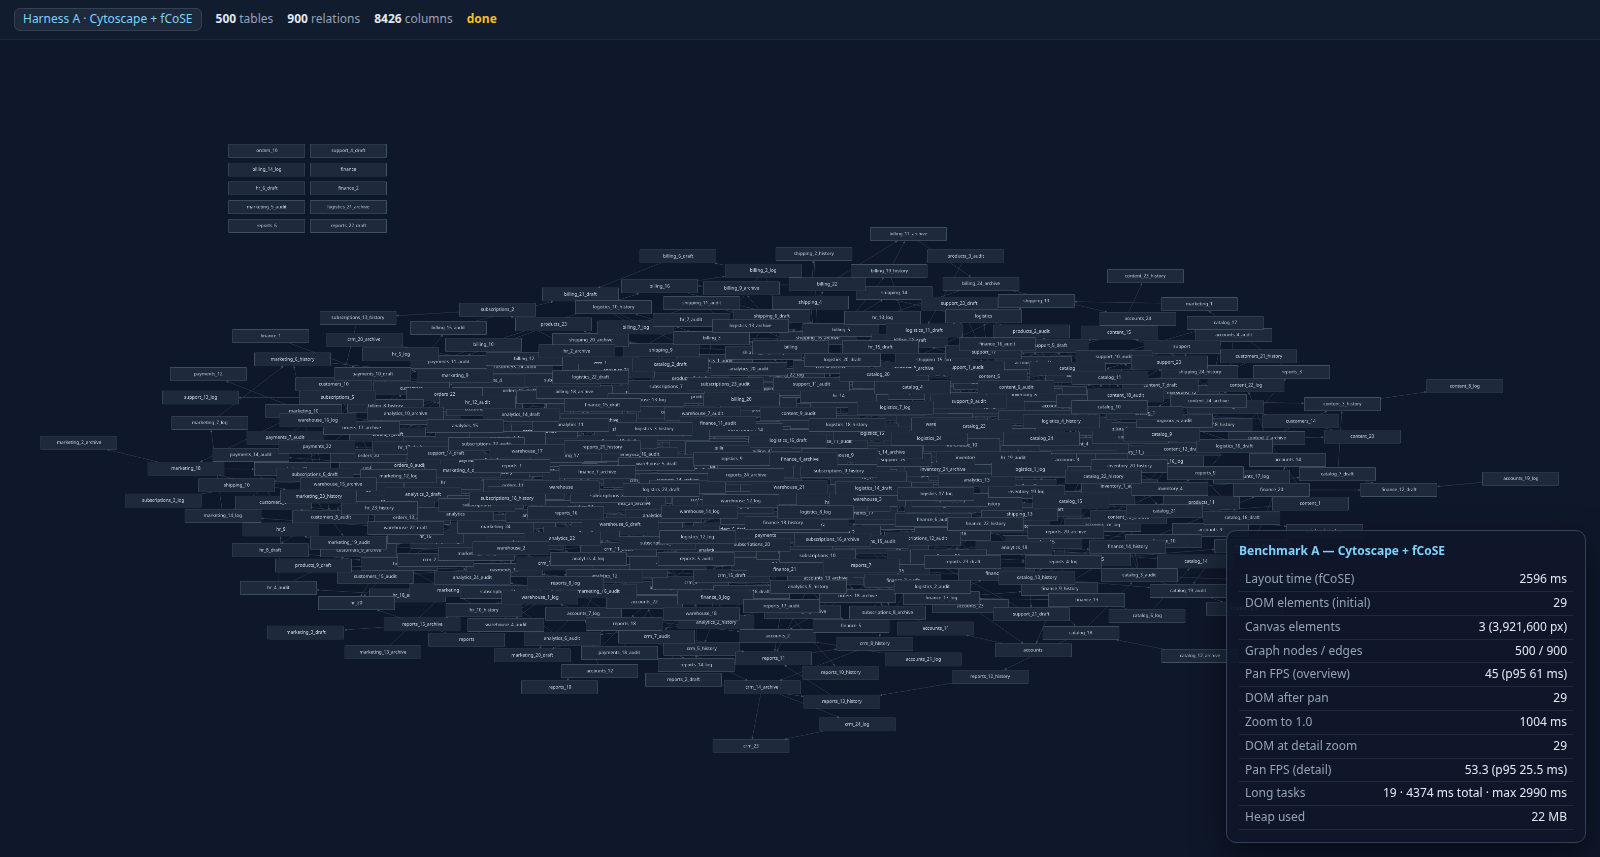
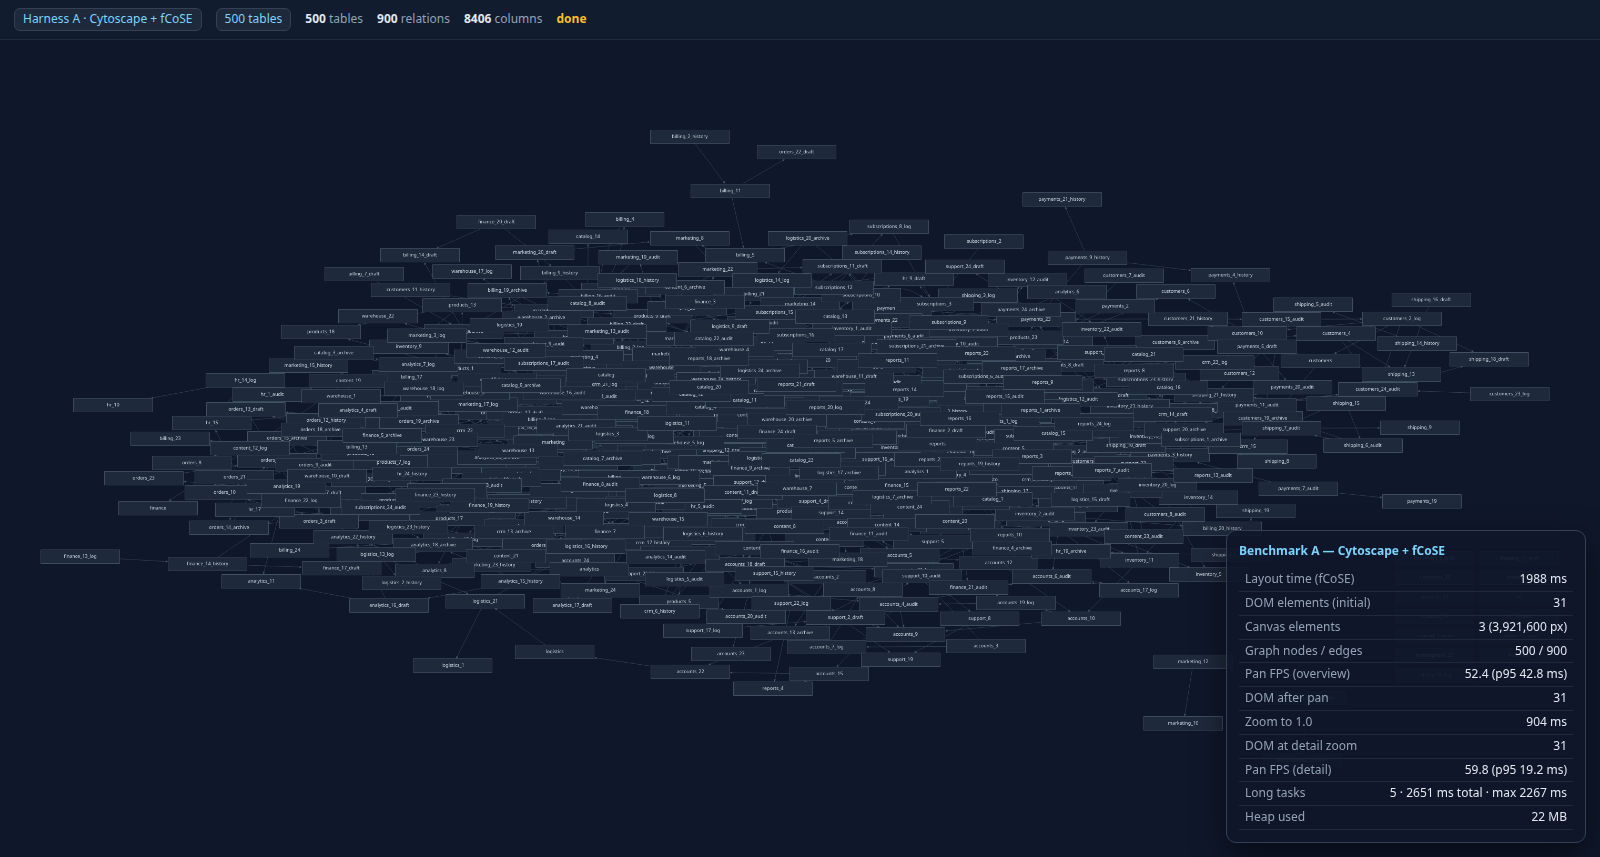
feat(er): P1.8 benchmark full matrix 100/500/1000 tables
Parameterized the harness: fixture-500.js becomes fixture-gen.js (generateERFixture + presets 100/500/1000 matching the locked A/B/C sizes), harnesses renamed to er-cytoscape.html / er-reactflow.html and read the scale from ?n=.

Full matrix (Chrome 150 headless, serialized): Cytoscape holds 31 DOM elements at every scale (layout 0.2/2/36 s); React Flow scales ~11.8 DOM/table (1,143/6,143/11,817; layout 0.15/8/122 s), overview pan degrades 60/34/18.6 fps while detail pan locks 60 fps both. Conclusions recorded in VERIFICATION.md: <=100 tables keep React Flow; ~500 viable with worker layout + neighborhood default; ~1000 full-graph React Flow not viable -> hybrid Cytoscape overview + React detail supported by evidence.

diff --git a/bench/fixture-gen.js b/bench/fixture-gen.js
@@ -1,0 +1,134 @@
+/*
+ * ER benchmark fixture generator — shared by both harnesses.
+ *
+ * Deterministic (mulberry32 seeded PRNG): same options => identical data on
+ * every load, so harness A (Cytoscape) and harness B (React Flow) always
+ * benchmark the exact same graph.
+ *
+ * Usage:
+ *   window.ER_FIXTURE = generateERFixture({ ... })   // or
+ *   window.ER_FIXTURE = generateERFixture.presets["500"]
+ *
+ * Presets (locked in docs/plans/active/ui-foundation-scale-hardening):
+ *   A 100  tables  ~150  relations  ~1,200 columns
+ *   B 500  tables  ~900  relations  ~7,500 columns
+ *   C 1000 tables  ~2000 relations  ~15,000 columns
+ */
+(function () {
+  "use strict";
+
+  function mulberry32(seed) {
+    let a = seed >>> 0;
+    return function () {
+      a |= 0;
+      a = (a + 0x6d2b79f5) | 0;
+      let t = Math.imul(a ^ (a >>> 15), 1 | a);
+      t = (t + Math.imul(t ^ (t >>> 7), 61 | t)) ^ t;
+      return ((t ^ (t >>> 14)) >>> 0) / 4294967296;
+    };
+  }
+
+  const COLUMN_TYPES = [
+    "bigint", "integer", "varchar(255)", "text", "timestamp",
+    "timestamptz", "boolean", "numeric(12,2)", "uuid", "date", "jsonb", "double precision",
+  ];
+  const COMMON_COLS = ["id", "created_at", "updated_at", "status", "is_active", "version", "tenant_id", "notes", "metadata"];
+
+  const DOMAIN_NAMES = [
+    "customers", "orders", "products", "payments", "accounts",
+    "shipping", "inventory", "billing", "hr", "crm",
+    "marketing", "support", "analytics", "content", "subscriptions",
+    "warehouse", "finance", "logistics", "catalog", "reports",
+  ];
+  const TABLE_SUFFIX = ["", "", "", "_history", "_archive", "_audit", "_log", "_draft"];
+
+  /**
+   * @param {object} opts
+   * @param {number} opts.tables      total tables (must divide by domains)
+   * @param {number} opts.relations   target relation count
+   * @param {number} opts.domains     number of domains (<= DOMAIN_NAMES.length)
+   * @param {number} opts.colMin      columns per table (min)
+   * @param {number} opts.colMax      columns per table (max)
+   * @param {number} [opts.seed]      PRNG seed (default 42)
+   */
+  function generateERFixture(opts) {
+    const seed = opts.seed ?? 42;
+    const rand = mulberry32(seed);
+    const pick = (arr) => arr[Math.floor(rand() * arr.length)];
+    const randInt = (min, max) => min + Math.floor(rand() * (max - min + 1));
+
+    const domains = DOMAIN_NAMES.slice(0, opts.domains);
+    const perDomain = Math.round(opts.tables / opts.domains);
+
+    const tables = [];
+    const relations = [];
+    let tableSeq = 1;
+
+    for (const domain of domains) {
+      for (let i = 0; i < perDomain; i++) {
+        const id = "t" + String(tableSeq++).padStart(4, "0");
+        const name = i === 0 ? domain : domain + "_" + i + pick(TABLE_SUFFIX);
+        const nCols = randInt(opts.colMin, opts.colMax);
+        const columns = [];
+        for (let c = 0; c < nCols; c++) {
+          const isPk = c === 0;
+          columns.push({
+            name: isPk ? "id" : COMMON_COLS[c % COMMON_COLS.length] + (c < 4 ? "" : "_" + c),
+            type: isPk ? "bigint" : pick(COLUMN_TYPES),
+            isPk,
+            isFk: false,
+          });
+        }
+        tables.push({ id, name, domain, columns });
+      }
+    }
+
+    // Relations: 65% intra-domain, 35% cross-domain; each relation adds one FK column.
+    const seenPairs = new Set();
+    let guard = 0;
+    while (relations.length < opts.relations && guard++ < opts.relations * 40) {
+      const source = tables[Math.floor(rand() * tables.length)];
+      let target;
+      if (rand() < 0.65) {
+        const sameDomain = tables.filter((t) => t.domain === source.domain && t.id !== source.id);
+        if (!sameDomain.length) continue;
+        target = sameDomain[Math.floor(rand() * sameDomain.length)];
+      } else {
+        const others = tables.filter((t) => t.domain !== source.domain);
+        if (!others.length) continue;
+        target = others[Math.floor(rand() * others.length)];
+      }
+      const key = source.id + "->" + target.id;
+      if (seenPairs.has(key)) continue;
+      seenPairs.add(key);
+      source.columns.push({ name: target.name + "_id", type: "bigint", isPk: false, isFk: true });
+      relations.push({
+        id: "fk" + (relations.length + 1),
+        source: source.id,
+        target: target.id,
+        column: target.name + "_id",
+        fkName: "fk_" + source.name + "_" + target.name + "_" + (relations.length + 1),
+      });
+    }
+
+    return {
+      seed,
+      tables,
+      relations,
+      stats: {
+        tables: tables.length,
+        relations: relations.length,
+        columns: tables.reduce((s, t) => s + t.columns.length, 0),
+        domains: domains.length,
+      },
+    };
+  }
+
+  generateERFixture.presets = {
+    "100": { tables: 100, relations: 150, domains: 10, colMin: 8, colMax: 16, seed: 42 },
+    "500": { tables: 500, relations: 900, domains: 20, colMin: 10, colMax: 20, seed: 42 },
+    "1000": { tables: 1000, relations: 2000, domains: 20, colMin: 10, colMax: 20, seed: 42 },
+  };
+
+  window.generateERFixture = generateERFixture;
+})();

diff --git a/bench/er-cytoscape.html b/bench/er-cytoscape.html
@@ -32,6 +32,7 @@
 <div id="app">
   <div id="hud">
     <span class="tag">Harness A · Cytoscape + fCoSE</span>
+    <span class="tag scale-badge"></span>
     <span><b id="statTables"></b> tables</span>
     <span><b id="statRels"></b> relations</span>
     <span><b id="statCols"></b> columns</span>
@@ -45,7 +46,14 @@
 <script src="vendor/layout-base.js"></script>
 <script src="vendor/cose-base.js"></script>
 <script src="vendor/cytoscape-fcose.js"></script>
-<script src="fixture-500.js"></script>
+<script src="fixture-gen.js"></script>
+<script>
+  // Scale via query param: er-cytoscape.html?n=100 | 500 | 1000 (default 500)
+  window.__FIXTURE_N = new URLSearchParams(location.search).get("n") || "500";
+  if (!(window.__FIXTURE_N in generateERFixture.presets)) window.__FIXTURE_N = "500";
+  window.ER_FIXTURE = generateERFixture(generateERFixture.presets[window.__FIXTURE_N]);
+  document.querySelectorAll(".scale-badge").forEach((el) => { el.textContent = window.__FIXTURE_N + " tables"; });
+</script>
 <script>
 (function () {
   "use strict";

diff --git a/bench/er-reactflow.html b/bench/er-reactflow.html
@@ -44,6 +44,7 @@
 <body>
 <div id="hud">
   <span class="tag">Harness B · React Flow v12</span>
+    <span class="tag scale-badge"></span>
   <span><b id="statTables"></b> tables</span>
   <span><b id="statRels"></b> relations</span>
   <span><b id="statCols"></b> columns</span>
@@ -73,7 +74,14 @@
 </script>
 <script src="vendor/xyflow-umd.js"></script>
 <script src="vendor/dagre.min.js"></script>
-<script src="fixture-500.js"></script>
+<script src="fixture-gen.js"></script>
+<script>
+  // Scale via query param: er-reactflow.html?n=100 | 500 | 1000 (default 500)
+  window.__FIXTURE_N = new URLSearchParams(location.search).get("n") || "500";
+  if (!(window.__FIXTURE_N in generateERFixture.presets)) window.__FIXTURE_N = "500";
+  window.ER_FIXTURE = generateERFixture(generateERFixture.presets[window.__FIXTURE_N]);
+  document.querySelectorAll(".scale-badge").forEach((el) => { el.textContent = window.__FIXTURE_N + " tables"; });
+</script>
 <script>
 (function () {
   "use strict";

diff --git a/docs/plans/active/ui-foundation-scale-hardening/VERIFICATION.md b/docs/plans/active/ui-foundation-scale-hardening/VERIFICATION.md
@@ -92,51 +92,54 @@ Known interaction (P1.2, documented): with `onlyRenderVisibleElements` enabled, 
 
 P1.1 HUD is enabled via `localStorage.setItem("er-perf-hud", "1")` before opening the ER diagram. It is dev-only and never shipped in the default UI.
 
-## P1.8 A/B benchmark harness — Cytoscape vs React Flow (500 tables)
+## P1.8 A/B benchmark harness — Cytoscape vs React Flow (100/500/1000 tables)
 
 Standalone harnesses built from scratch in `bench/` (vendored UMD builds; no app code):
 
-- `bench/fixture-500.js` — deterministic fixture (mulberry32, seed 42): 500 tables / 900 relations / 8,426 columns / 20 domains
-- `bench/er-cytoscape-500.html` — Harness A: Cytoscape 3.30.2 + fCoSE 2.2.0 canvas renderer
-- `bench/er-reactflow-500.html` — Harness B: React 18 UMD + @xyflow/react 12.11.2 UMD + dagre 0.8.5 layout, `onlyRenderVisibleElements` + zoom LOD (title-only < 0.5, columns >= 0.5)
+- `bench/fixture-gen.js` — deterministic fixture generator (mulberry32, seed 42) with presets 100 / 500 / 1000 (locked sizes: A ~150 rels, B ~900 rels, C ~2,000 rels)
+- `bench/er-cytoscape.html?n=<scale>` — Harness A: Cytoscape 3.30.2 + fCoSE 2.2.0 canvas renderer
+- `bench/er-reactflow.html?n=<scale>` — Harness B: React 18 UMD + @xyflow/react 12.11.2 UMD + dagre 0.8.5 layout, `onlyRenderVisibleElements` + zoom LOD (title-only < 0.5, columns >= 0.5)
 - `bench/run-bench.js` — CDP runner: launches headless Chrome, waits for `BENCH_READY`, extracts `window.__bench` + screenshots
 
 Protocol (identical on both): fCoSE/dagre layout → initial DOM count → pan @ overview (110 frames) → zoom to 1.0 → DOM count + visible nodes/edges at detail → pan @ detail (110 frames). Long tasks via `PerformanceObserver('longtask')` from page load.
 
-Environment: Chrome 150 headless, software rendering, 1600x1000 viewport. 3 runs (run 1 parallel, runs 2-3 serialized).
+Environment: Chrome 150 headless, software rendering, 1600x1000 viewport. One serialized run per cell.
 
-| Metric | A · Cytoscape + fCoSE | B · React Flow v12 | Ratio (B/A) |
-|---|---|---|---|
-| Layout (main-thread block) | 1,889–2,596 ms | 10,747–17,259 ms | ~5–7x |
-| DOM elements, initial (fit view) | **29** | **6,141** | **~212x** |
-| DOM elements, detail zoom | 29 | 439 | ~15x |
-| Pan FPS, overview | 21.6–52.5 | 22.9–30.8 | — (headless variance) |
-| Pan FPS, detail zoom | 21.5–60.0 | 60.0 (locked) | B wins (culling) |
-| Long-task total | 3.0–6.3 s | 11.6–18.4 s | ~3x |
-| Long-task max (layout) | 2.8–3.0 s | 10.7–17.3 s | ~4–6x |
-| Heap used | 22–38 MB | 40–58 MB | ~1.5–2x |
+| Metric | A100 | B100 | A500 | B500 | A1000 | B1000 |
+|---|---|---|---|---|---|---|
+| Layout (main-thread block) | 223 ms | 151 ms | 1,988 ms | 8,110 ms | 36,004 ms | **122,084 ms** |
+| DOM elements, initial (fit view) | **31** | 1,143 | **31** | 6,143 | **31** | 11,817 |
+| DOM elements, detail zoom | 31 | 547 | 31 | 463 | 31 | 751 |
+| Pan FPS, overview | 60.5 | 60.0 | 52.4 | 34.0 | 48.0 | **18.6** |
+| Pan FPS, detail zoom | 59.5 | 60.0 | 59.8 | 60.0 | 59.0 | 60.0 |
+| Long-task max (layout) | 333 ms | 155 ms | 2,267 ms | 8,111 ms | 36,401 ms | **122,086 ms** |
+| Heap used | 9.5 MB | 28 MB | 22 MB | 73 MB | 22 MB | 48 MB |
 
-### Interpretation (evidence-driven)
+### Interpretation (evidence-driven, 3 scales)
 
-1. **DOM-count root cause confirmed.** Cytoscape holds ~29 DOM elements for the whole 500-table graph; React Flow renders ~6,141 (all nodes + 900 SVG edges re-rendered per pan frame at overview zoom). ~212x more DOM to update per frame is the core difference behind the original screenshot paradox.
-2. **Layout is a worse bottleneck than expected for React Flow.** dagre on 500 tables blocks the main thread 10.7–17.3 s in this environment (vs fCoSE 1.9–2.6 s). Layout must move off-thread (P1.7) regardless of renderer.
-3. **P1.2–P1.4 culling + LOD demonstrably work:** at detail zoom React Flow renders only ~4 nodes / ~74 edges (439 DOM) and locks 60 fps, exactly the locked invariant `renderedTables ≈ viewportTables + overscan`.
-4. **Overview pan is React Flow's weak point** (all nodes visible at fit-view ⇒ no culling win ⇒ 6,141 DOM per frame ⇒ 22–31 fps in software rendering). This is precisely the workload Cytoscape's canvas is built for.
-5. **Decision input for P1.9:** the hybrid the user locked (Cytoscape canvas for overview/exploration + React DOM for selected-table detail) is supported by this evidence; React Flow remains fine for small/medium schemas and detail-zoom interaction.
+1. **DOM-count root cause confirmed at every scale.** Cytoscape holds 31 DOM elements regardless of graph size (canvas); React Flow scales linearly (~11.8 DOM/table: 1,143 → 6,143 → 11,817) — every one of those re-renders per pan frame at overview zoom.
+2. **Layout is the dominant bottleneck, both renderers, and scales terribly.** fCoSE: 0.2s → 2s → 36s; dagre: 0.15s → 8s → **122 s**. dagre at 1,000 tables freezes the app for ~2 minutes on the main thread — layout MUST move off-thread (P1.7) + cache by schema hash, regardless of renderer choice.
+3. **Renderer scaling: Cytoscape degrades gracefully, React Flow collapses at overview.** Pan FPS overview: A stays 48–60 at all scales; B drops 60 → 34 → 18.6. At detail zoom both hold 60 fps (B thanks to P1.2–P1.4 culling + LOD — locked invariant `renderedTables ≈ viewportTables + overscan` holds).
+4. **Memory: canvas stays flat (~22 MB at 500/1000); React Flow peaks 73 MB at 500.**
+5. **Decision input for P1.9:**
+   - ≤ 100 tables: both renderers are excellent → keep React Flow (no reason to switch).
+   - ~500 tables: React Flow works with worker layout + the P1.6 neighborhood default (full-graph overview is the only weak spot at 34 fps); Cytoscape is strictly better for full-graph overview.
+   - ~1,000 tables: full-graph React Flow is not viable (122 s layout block, 18.6 fps overview); Cytoscape handles interaction fine (48–59 fps) once layout is off-thread.
+   - The locked hybrid (Cytoscape canvas for overview/exploration + React DOM for selected-table detail) is supported by this evidence.
 
-Screenshots: `bench/er-cytoscape-500.png`, `bench/er-reactflow-500.png`.
+Screenshots: `bench/er-cytoscape-{100,500,1000}.png`, `bench/er-reactflow-{100,500,1000}.png`.
 
 ### Caveats
 
-- **DOM counts are the robust claim** (stable across all runs: 29 vs 6,141). Layout numbers are directional: both layouts run at cold-start right after ~500 KB of vendor scripts parse (dagre at top-level script, fCoSE inside the deferred `run()`), so absolute layout/long-task figures are inflated versus a warm page — the ~5-7x ratio is not precise, but the direction (dagre 500 tables blocks the main thread for many seconds in this environment) stands and motivates P1.7 (layout off-thread) regardless of renderer.
-- **Frame-sampling asymmetry**: Cytoscape `pan()` is synchronous, React `setViewport()` renders asynchronously (its commit may land one frame after the sample window) — React frame costs may be slightly under-reported. Overview pan (22-31 fps) shows the cost is still captured; detail pan hitting 60 fps is genuine culling/LOD headroom.
-- **Scope**: fixture B (500 tables) only. Fixtures A (100) and C (1,000) pending; 1,000 tables is where DOM-vs-canvas divergence is largest and should be run before a final P1.9 call.
+- **DOM counts are the robust claim** (stable across all runs/cells). Layout numbers are directional: both layouts run at cold-start right after vendor scripts parse, so absolute figures are inflated versus a warm page — but the scaling trend (fCoSE 0.2→36 s, dagre 0.15→122 s) and the conclusion (layout off-thread is mandatory) hold.
+- **Frame-sampling asymmetry**: Cytoscape `pan()` is synchronous, React `setViewport()` renders asynchronously (its commit may land one frame after the sample window) — React frame costs may be slightly under-reported. Overview pan degradation (60→34→18.6 fps) still captures it.
+- Software rendering only (headless). GPU-backed canvas painting would favor Cytoscape's repaint-heavy path on real hardware; DOM transform cost for React Flow is GPU-agnostic.
 
 ## Runtime evidence log
 
 | Date | Phase | Evidence | Result |
 |---|---|---|---|
-| 2026-08-12 | P1.8 | A/B harness, 500 tables (see section above) | Cytoscape: 29 DOM / 2.5s layout · React Flow: 6,141 DOM / 10.7–17.3s layout block |
+| 2026-08-12 | P1.8 | A/B harness full matrix 100/500/1000 (see section above) | Cytoscape: 31 DOM at all scales, layout 0.2/2/36 s · React Flow: 1,143/6,143/11,817 DOM, layout 0.15/8/122 s, overview pan 60/34/18.6 fps |
 
 ## Provider matrix
 

diff --git a/docs/plans/active/ui-foundation-scale-hardening/CHECKLIST.md b/docs/plans/active/ui-foundation-scale-hardening/CHECKLIST.md
@@ -62,8 +62,8 @@
 - [x] **6.6** P1.5 Viewport / spatial-index layer — `SpatialIndex` (uniform-grid hash over node bounding boxes) returns visible node + edge IDs; brute-force reference kept for tests; HUD queries via the index
 - [x] **6.7** P1.6 Default neighborhood exploration UX — landing mode (stats + suggested starting points by FK degree) + hop scope `[1][2][3][Domain]` + explicit `All N`; auto-fit on scope change
 - [ ] **6.8** P1.7 Layout in Web Worker + `schemaHash → positions` cache, atomic commit
-- [~] **6.9** P1.8 Benchmark A/B harness (500 tables) — DONE: Cytoscape 29 DOM / 2.5s layout vs React Flow 6,141 DOM / 10.7–17.3s layout block (see VERIFICATION.md); fixtures 100/1000 pending
-- [~] **6.10** P1.9 Canvas decision — evidence collected (DOM count + layout bottleneck confirmed); hybrid Cytoscape-canvas decision pending user confirmation
+- [x] **6.9** P1.8 Benchmark A/B harness — full matrix 100/500/1000 DONE (VERIFICATION.md): Cytoscape 31 DOM at all scales (layout 0.2/2/36 s) vs React Flow 1,143/6,143/11,817 DOM (layout 0.15/8/122 s); overview pan 60/34/18.6 fps (B) vs 48–60 (A); detail pan 60 fps both
+- [~] **6.10** P1.9 Canvas decision — evidence complete: ≤100 keep React Flow; ~500 viable with worker layout + neighborhood default; ~1000 full-graph React Flow not viable → hybrid Cytoscape overview + React detail supported; decision pending user confirmation
 - [ ] **6.11** Complexity score replaces hardcoded thresholds (`tableCount + relationCount*0.7 + totalColumnCount*0.08`)
 
 ## Gates
